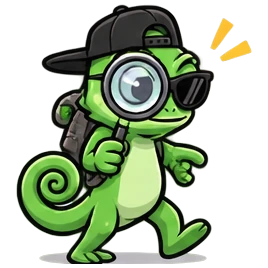
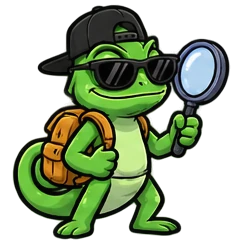
Хамі: нові пози з ескізів (їсть, голодний, грає, лист, покупки, будильник) і оновлені старі
Claude-Session: https://claude.ai/code/session_01VzdfxJyxPVyo6PN33hqS2G

diff --git a/js/views/me.js b/js/views/me.js
@@ -24,7 +24,7 @@ export function meView() {
   ${moodCard(r, pid, t)}
   ${upcoming(r, t)}
   <div class="grid2">
-    <button class="tile warm" data-a="noteSheet"><span class="tile-ic">${icon('send')}</span><b>Записка</b><span>Надіслати сюрприз</span></button>
+    <button class="tile warm" data-a="noteSheet"><span class="tile-ic spr">${hami('letter', { size: 52 })}</span><b>Записка</b><span>Надіслати сюрприз</span></button>
     <button class="tile" data-a="evening"><span class="tile-ic">${icon('wand')}</span><b>Вечір</b><span>Кіно + рецепт</span></button>
   </div>
   ${checkinCard(r, pid, t)}
@@ -87,7 +87,7 @@ function petCard(r, t) {
   const hungry = !!pet.lastFed && isHungry(pet, t);
   const h = kyivHour();
   const night = (h >= 23 || h < 7) && nMeals > 0;
-  const face = night ? 'sleep' : hungry ? 'tired' : !fed ? 'thinking' : todayMood ? MOOD_POSE[todayMood] : nMeals === 3 ? 'joy' : 'cool';
+  const face = S.ui.petPose && S.ui.petPose.until > Date.now() ? S.ui.petPose.p : night ? 'sleep' : hungry ? 'tired' : !fed ? 'hungry' : todayMood ? MOOD_POSE[todayMood] : nMeals === 3 ? 'joy' : 'cool';
   const color = hungry ? 'grey' : { great: 'green', ok: 'yellow', sad: 'blue' }[todayMood] || 'green';
   const look = lookOf(pet);
   const tasks = tasksFor(t);
@@ -239,6 +239,7 @@ on('feed', async (el, e) => {
   e.stopPropagation();
   const meal = mealAt();
   if (await act({ type: 'feed' })) {
+    S.ui.petPose = { p: 'eat', until: Date.now() + 5000 }; S.render(); setTimeout(() => S.render(), 5100);
     floaty('🦗'); setTimeout(() => floaty('💕'), 300);
     const n = mealsDone(S.room.pet, today());
     toast(n === 3 ? `Ситий день! +${XP.feed} досвіду${S.room.pet.streak % 7 === 0 ? ` і +${XP.streak7} за тиждень 🔥` : ''}` : `Ням! ${MEALS[meal].name} ✓ (${n}/3). Досвід — коли будуть усі 3`);
@@ -258,7 +259,7 @@ function gameSheet(game) {
       if (finished || !box.isConnected) return;
       finished = true;
       sh.querySelector('[data-other]').remove();
-      box.innerHTML = `<div class="center pad">${hami(win ? 'joy' : 'sad', { size: 100 })}<div class="muted">Зачекай…</div></div>`;
+      box.innerHTML = `<div class="center pad">${hami('play', { size: 100 })}<div class="muted">Зачекай…</div></div>`;
       const ok = await act({ type: 'game', game: g.id, win }, { silent: true });
       if (!box.isConnected) return;
       const lf = S.room.pet.lastFind;

diff --git a/js/views/more.js b/js/views/more.js
@@ -1,6 +1,6 @@
 // «Ще» and its sections: trips, calendar, goals, check-in, notes, settings, FAQ.
 import { S, on, act, go, openSheet, closeSheet, openForm, toast, today, partnerId, partner, meM, nameOf, ui, LS, leave, parseNum } from '../store.js';
-import { esc, icon, emptyState, avatar, fmtDate, fmtRange, money, MONTHS, WEEKDAYS, ago, plural, resizeImage, otter } from '../ui.js';
+import { esc, icon, hami, emptyState, avatar, fmtDate, fmtRange, money, MONTHS, WEEKDAYS, ago, plural, resizeImage, otter } from '../ui.js';
 import { addDays, weekStart, checkinWeek, CHECKIN_QUESTIONS, levelInfo } from '/lib/core.js';
 import { itemsBetween, KIND } from '../derive.js';
 import { piggy, share } from './me.js';
@@ -199,7 +199,7 @@ function dayList(d, items, compact = false) {
   ${items.length ? `<section class="card list">${items.map((x) => `<div class="li cal-li"><button class="grow left row" data-a="calItem" data-ref="${x.ref ? x.ref.join(':') : ''}">
       <span class="kdot" style="background:${KIND[x.kind].color}"></span><span class="grow"><b>${esc(x.title)}</b><br><span class="muted small">${KIND[x.kind].label}${x.time ? ' · ' + x.time : ''}</span></span></button>
       <a class="gcal-b" href="${esc(gcalLink(x))}" target="_blank" rel="noopener" aria-label="Додати в Google Календар" title="Додати в Google Календар">${icon('cal', 16)}<i>G</i></a></div>`).join('')}</section>`
-    : compact ? '' : `<p class="center muted">Нічого не заплановано.</p><button class="dashed-btn" data-a="eventForm" data-d="${d}">${icon('plus', 18)} Запланувати на цей день</button>`}`;
+    : compact ? '' : `<div class="center">${hami('reminder', { size: 90 })}</div><p class="center muted">Нічого не заплановано.</p><button class="dashed-btn" data-a="eventForm" data-d="${d}">${icon('plus', 18)} Запланувати на цей день</button>`}`;
 }
 
 function eventForm(e, date) {

diff --git a/js/ui.js b/js/ui.js
@@ -120,9 +120,9 @@ export const PALETTE = {
   rainbow: ['url(#RB)', '#7E57C2', '#FFF4CC', '#FFFFFF'],
 };
 /* Хамі — sticker sprites (img/hami/*.webp). Colour = CSS hue shift of the green original. */
-export const HAMI_POSES = ['great', 'normal', 'sad', 'joy', 'wow', 'angry', 'guide', 'chef', 'whisper', 'sleep', 'thinking', 'tired', 'hello', 'cool', 'think', 'heart', 'hide', 'sit'];
+export const HAMI_POSES = ['cool', 'great', 'normal', 'sad', 'joy', 'wow', 'angry', 'tired', 'sleep', 'thinking', 'hello', 'heart', 'eat', 'hungry', 'play', 'letter', 'shopping', 'reminder', 'guide', 'chef', 'whisper', 'hide', 'think', 'sit'];
 // top of the cap, % of the sprite (for a hat worn on top)
-export const HAMI_TOP = { angry: [54.8, 1.8], chef: [42, 1.8], cool: [52.8, 2.2], great: [52.7, 1.8], guide: [52, 1.9], heart: [41.8, 1.8], hello: [53, 1.9], hide: [45.5, 1.9], joy: [45.1, 6.7], normal: [52.7, 1.8], sad: [62.9, 27], sit: [50.8, 1.9], sleep: [55.7, 34], think: [51.4, 1.9], thinking: [45, 9], tired: [45.4, 2.1], whisper: [49, 3.7], wow: [44.6, 1.9] };
+export const HAMI_TOP = { angry: [51.2, 2], chef: [32.3, 2.6], cool: [46.9, 5.2], eat: [45, 2.1], great: [47.4, 2.1], guide: [45.1, 2.5], heart: [39.9, 2.1], hello: [51.5, 2], hide: [45.5, 1.9], hungry: [48.8, 2], joy: [45, 2.8], letter: [47.5, 2], normal: [50.7, 2.1], play: [44.6, 2.2], reminder: [44, 2.4], sad: [55, 46], shopping: [42.8, 2.5], sit: [50.8, 1.9], sleep: [39.9, 34.2], think: [51.4, 1.9], thinking: [42.3, 2.1], tired: [56.7, 2.1], whisper: [49, 3.7], wow: [44.4, 2.1] };
 const HUE = {
   green: '', emerald: 'hue-rotate(25deg) saturate(1.1)', mint: 'hue-rotate(45deg)', turquoise: 'hue-rotate(75deg)', blue: 'hue-rotate(110deg)',
   night: 'hue-rotate(125deg) brightness(.8) saturate(1.2)', violet: 'hue-rotate(160deg)', pink: 'hue-rotate(215deg) saturate(.9)', coral: 'hue-rotate(250deg) saturate(1.1)',

diff --git a/js/views/home.js b/js/views/home.js
@@ -1,6 +1,6 @@
 // «Дім» — shopping, chores, recipes.
 import { S, on, act, openSheet, closeSheet, openForm, toast, today, nameOf, ui, partnerId } from '../store.js';
-import { otter, cookScene } from '../ui.js';
+import { otter, hami, cookScene } from '../ui.js';
 import { esc, icon, emptyState, fmtDate } from '../ui.js';
 import { dayDiff } from '/lib/core.js';
 
@@ -38,7 +38,7 @@ function listHead(cat, nOpen, nDone) {
   const total = nOpen + nDone;
   const when = m ? (() => { const d = new Date(m.ts); const day = localDayKey(d); return (day === today() ? 'сьогодні' : fmtDate(day)) + ' о ' + d.toLocaleTimeString('uk-UA', { hour: '2-digit', minute: '2-digit' }); })() : '';
   return `<section class="card shop-head">
-    <div class="row"><span class="ic-box">${icon('cart', 22)}</span><div class="grow">
+    <div class="row"><span class="shop-hami">${hami('shopping', { size: 64 })}</span><div class="grow">
       <b>${m ? (m.by === S.me.id ? 'Твій список' : `Список від ${esc(nameOf(m.by))}`) : cat === 'food' ? 'Список продуктів' : 'Список покупок'}</b>
       <div class="muted small">${m ? when + ' · ' : ''}${total ? `куплено ${nDone} з ${total}` : 'поки порожній'}</div></div></div>
     ${total ? `<span class="bar-track mt"><span class="bar-fill" style="width:${Math.round((nDone / total) * 100)}%"></span></span>` : ''}

diff --git a/styles.css b/styles.css
@@ -975,3 +975,5 @@ b, h1, h2, h3, .ntext { overflow-wrap: break-word; word-break: normal; }
 @keyframes rainbowHue { from { filter: hue-rotate(0deg); } to { filter: hue-rotate(360deg); } }
 .wh-fab .hami { margin-top: 2px; }
 .p-mood-f .hami { width: 44px; }
+.tile-ic.spr { background: none !important; width: auto; height: auto; overflow: visible; margin: -8px 0 -4px -6px; }
+.shop-hami { flex: none; margin: -6px 0 -6px -6px; }

diff --git a/sw.js b/sw.js
@@ -1,4 +1,4 @@
-const CACHE = 'hamelyky-v28';
+const CACHE = 'hamelyky-v29';
 const SHELL = [
   '/', '/index.html', '/styles.css', '/manifest.webmanifest',
   '/js/app.js', '/js/games.js', '/js/osm.js', '/js/push.js', '/js/store.js', '/js/ui.js', '/js/derive.js', '/js/whisper.js',
